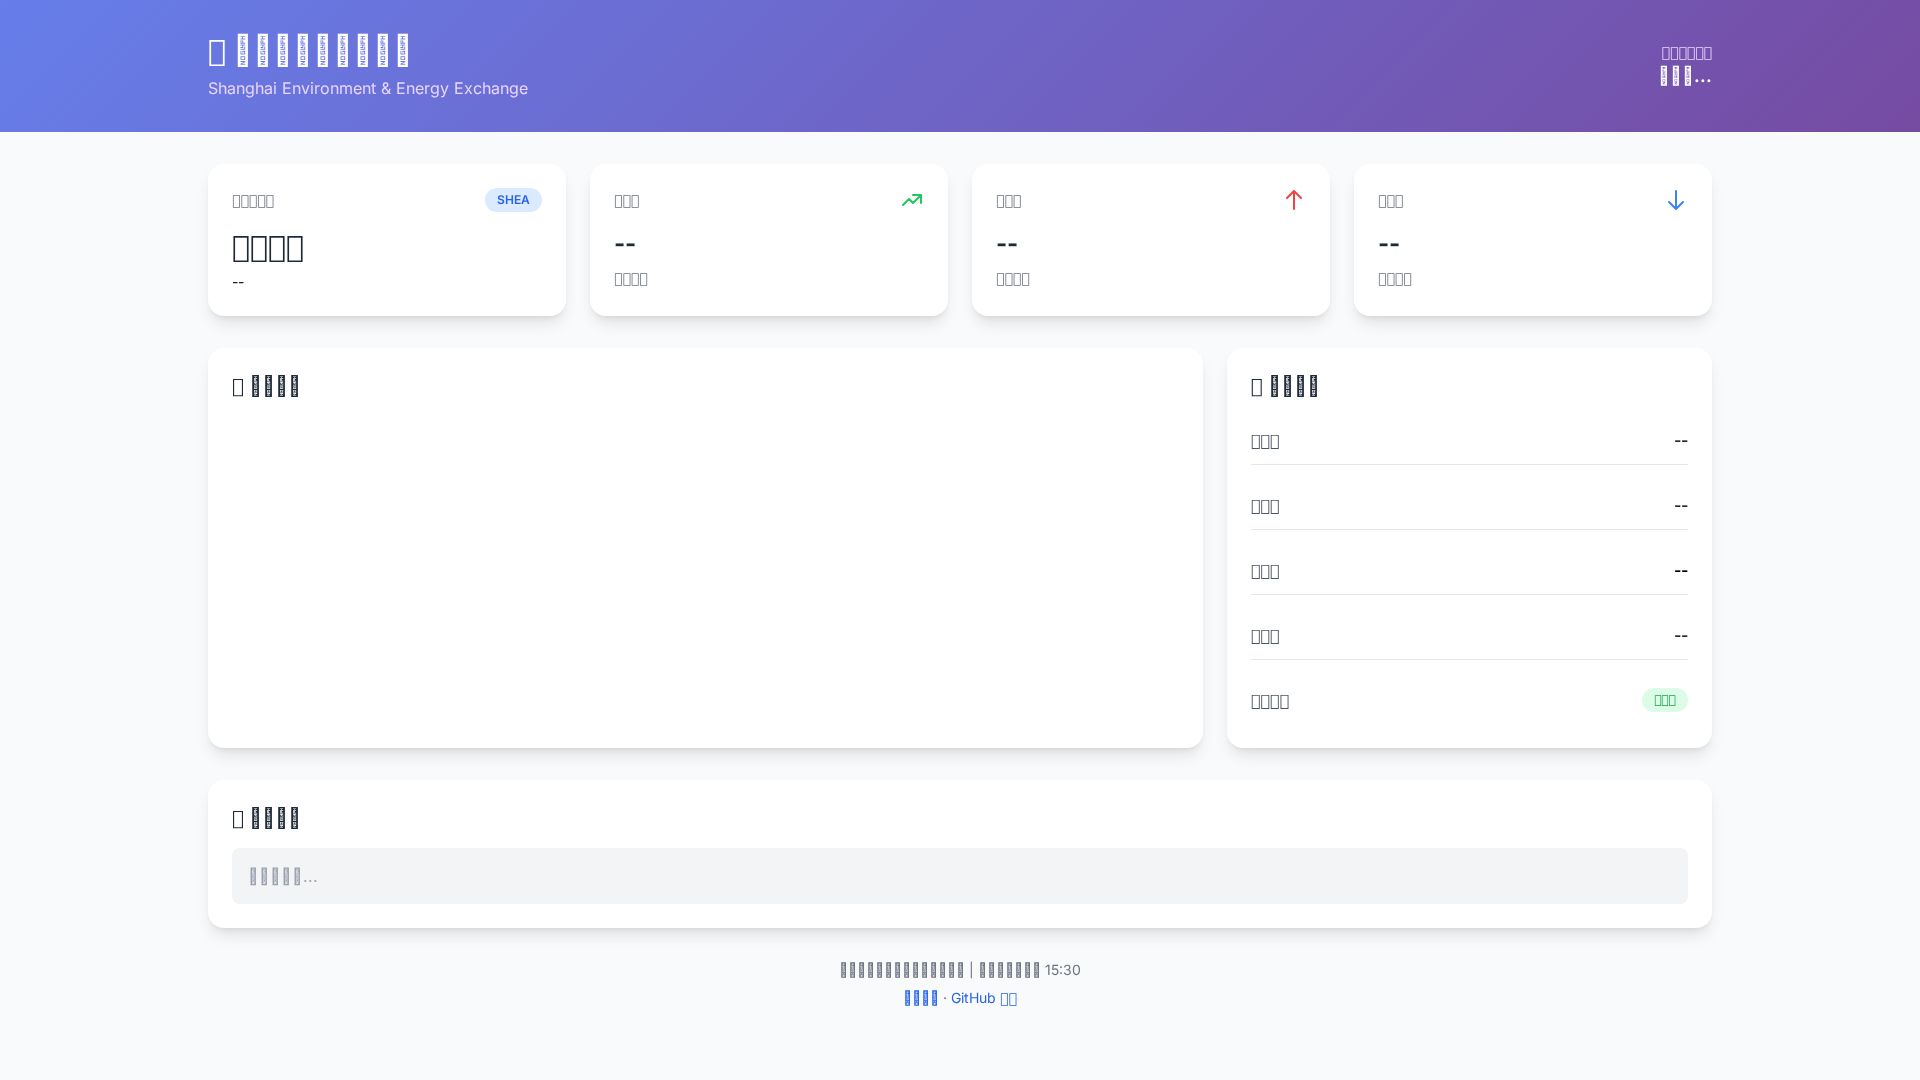
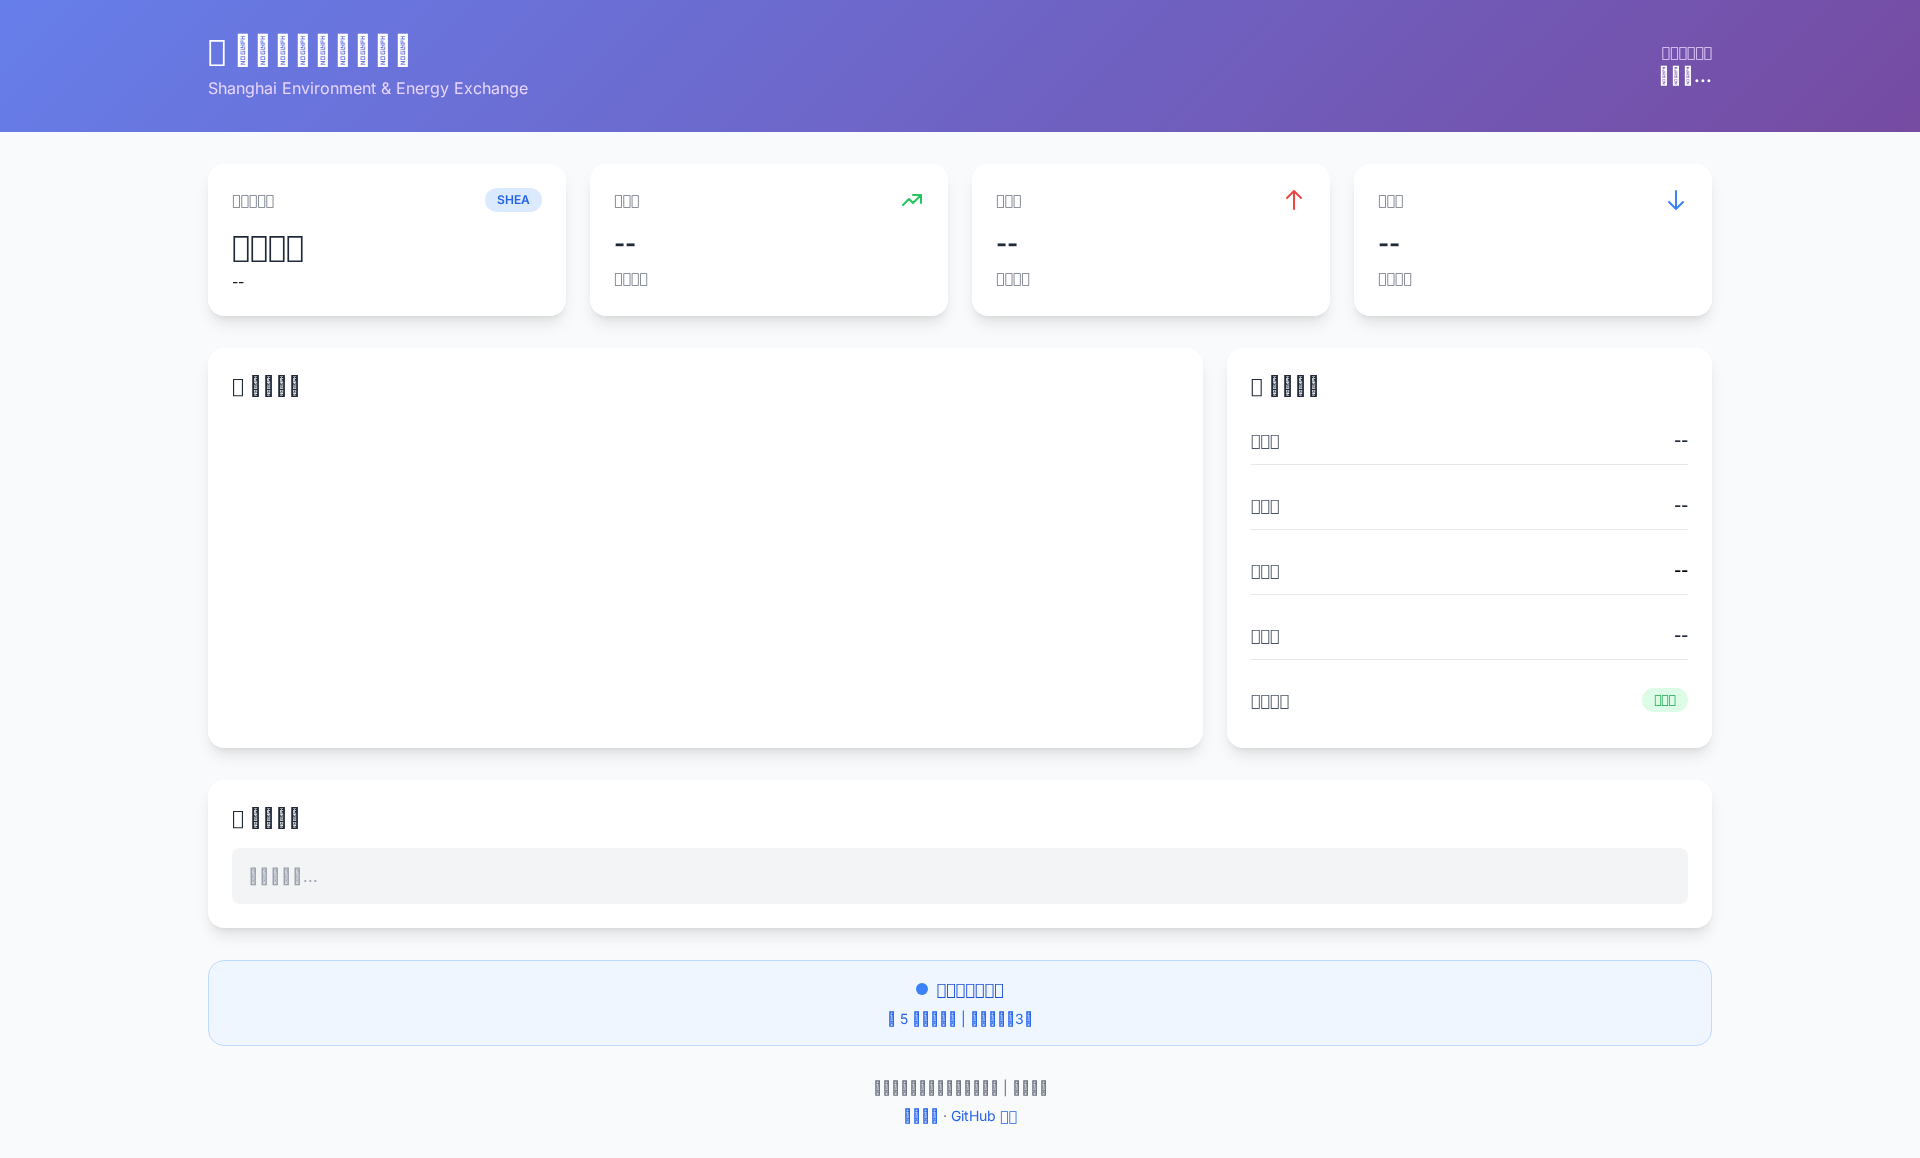
Add real-time auto-refresh every 5 seconds

diff --git a/index.html b/index.html
@@ -136,18 +136,34 @@
             </div>
         </div>
 
+        <!-- Real-time Status -->
+        <div class="mt-8 bg-blue-50 border border-blue-200 rounded-2xl p-4 text-center">
+            <div class="flex items-center justify-center gap-2 mb-2">
+                <span class="relative flex h-3 w-3">
+                    <span class="animate-ping absolute inline-flex h-full w-full rounded-full bg-blue-400 opacity-75"></span>
+                    <span class="relative inline-flex rounded-full h-3 w-3 bg-blue-500"></span>
+                </span>
+                <span class="text-blue-700 font-semibold">实时数据更新中</span>
+            </div>
+            <p class="text-blue-600 text-sm">每 5 秒自动刷新 | 下次更新：<span id="countdown">5</span>秒</p>
+        </div>
+
         <!-- Data Source -->
         <div class="mt-8 text-center text-gray-500 text-sm">
-            <p>数据来源：上海环境能源交易所 | 更新时间：每日 15:30</p>
+            <p>数据来源：上海环境能源交易所 | 实时行情</p>
             <p class="mt-2">
                 <a href="https://www.cneeex.com/" target="_blank" class="text-blue-600 hover:underline">官方网站</a>
                 ·
-                <a href="https://github.com" target="_blank" class="text-blue-600 hover:underline">GitHub 源码</a>
+                <a href="https://github.com/lupingli/shanghai-emission-exchange" target="_blank" class="text-blue-600 hover:underline">GitHub 源码</a>
             </p>
         </div>
     </main>
 
     <script>
+        let priceChart = null;
+        let refreshCountdown = 5;
+        let countdownInterval = null;
+
         // Load data
         async function loadData() {
             try {
@@ -180,29 +196,41 @@
                 // Chart
                 if (data.priceHistory && data.priceHistory.length > 0) {
                     const ctx = document.getElementById('priceChart').getContext('2d');
-                    new Chart(ctx, {
-                        type: 'line',
-                        data: {
-                            labels: data.priceHistory.map(d => d.date),
-                            datasets: [{
-                                label: '收盘价',
-                                data: data.priceHistory.map(d => d.price),
-                                borderColor: '#667eea',
-                                backgroundColor: 'rgba(102, 126, 234, 0.1)',
-                                tension: 0.4,
-                                fill: true
-                            }]
-                        },
-                        options: {
-                            responsive: true,
-                            plugins: {
-                                legend: { display: false }
+                    
+                    if (priceChart) {
+                        // Update existing chart
+                        priceChart.data.labels = data.priceHistory.map(d => d.date);
+                        priceChart.data.datasets[0].data = data.priceHistory.map(d => d.price);
+                        priceChart.update('none');
+                    } else {
+                        // Create new chart
+                        priceChart = new Chart(ctx, {
+                            type: 'line',
+                            data: {
+                                labels: data.priceHistory.map(d => d.date),
+                                datasets: [{
+                                    label: '收盘价',
+                                    data: data.priceHistory.map(d => d.price),
+                                    borderColor: '#667eea',
+                                    backgroundColor: 'rgba(102, 126, 234, 0.1)',
+                                    tension: 0.4,
+                                    fill: true
+                                }]
                             },
-                            scales: {
-                                y: { beginAtZero: false }
+                            options: {
+                                responsive: true,
+                                plugins: {
+                                    legend: { display: false }
+                                },
+                                scales: {
+                                    y: { beginAtZero: false }
+                                },
+                                animation: {
+                                    duration: 500
+                                }
                             }
-                        }
-                    });
+                        });
+                    }
                 }
                 
                 // News
@@ -218,13 +246,46 @@
                     `).join('');
                 }
                 
+                // Flash effect on update
+                document.body.style.transition = 'background-color 0.3s';
+                document.body.style.backgroundColor = '#eff6ff';
+                setTimeout(() => {
+                    document.body.style.backgroundColor = '#f9fafb';
+                }, 300);
+                
             } catch (error) {
                 console.error('Load data error:', error);
                 document.getElementById('latestPrice').textContent = '加载失败';
             }
         }
         
+        // Countdown timer
+        function startCountdown() {
+            refreshCountdown = 5;
+            document.getElementById('countdown').textContent = refreshCountdown;
+            
+            if (countdownInterval) clearInterval(countdownInterval);
+            
+            countdownInterval = setInterval(() => {
+                refreshCountdown--;
+                document.getElementById('countdown').textContent = refreshCountdown;
+                
+                if (refreshCountdown <= 0) {
+                    clearInterval(countdownInterval);
+                    loadData();
+                    startCountdown();
+                }
+            }, 1000);
+        }
+        
+        // Initial load
         loadData();
+        startCountdown();
+        
+        // Auto refresh every 5 seconds
+        setInterval(() => {
+            loadData();
+        }, 5000);
     </script>
 </body>
 </html>
